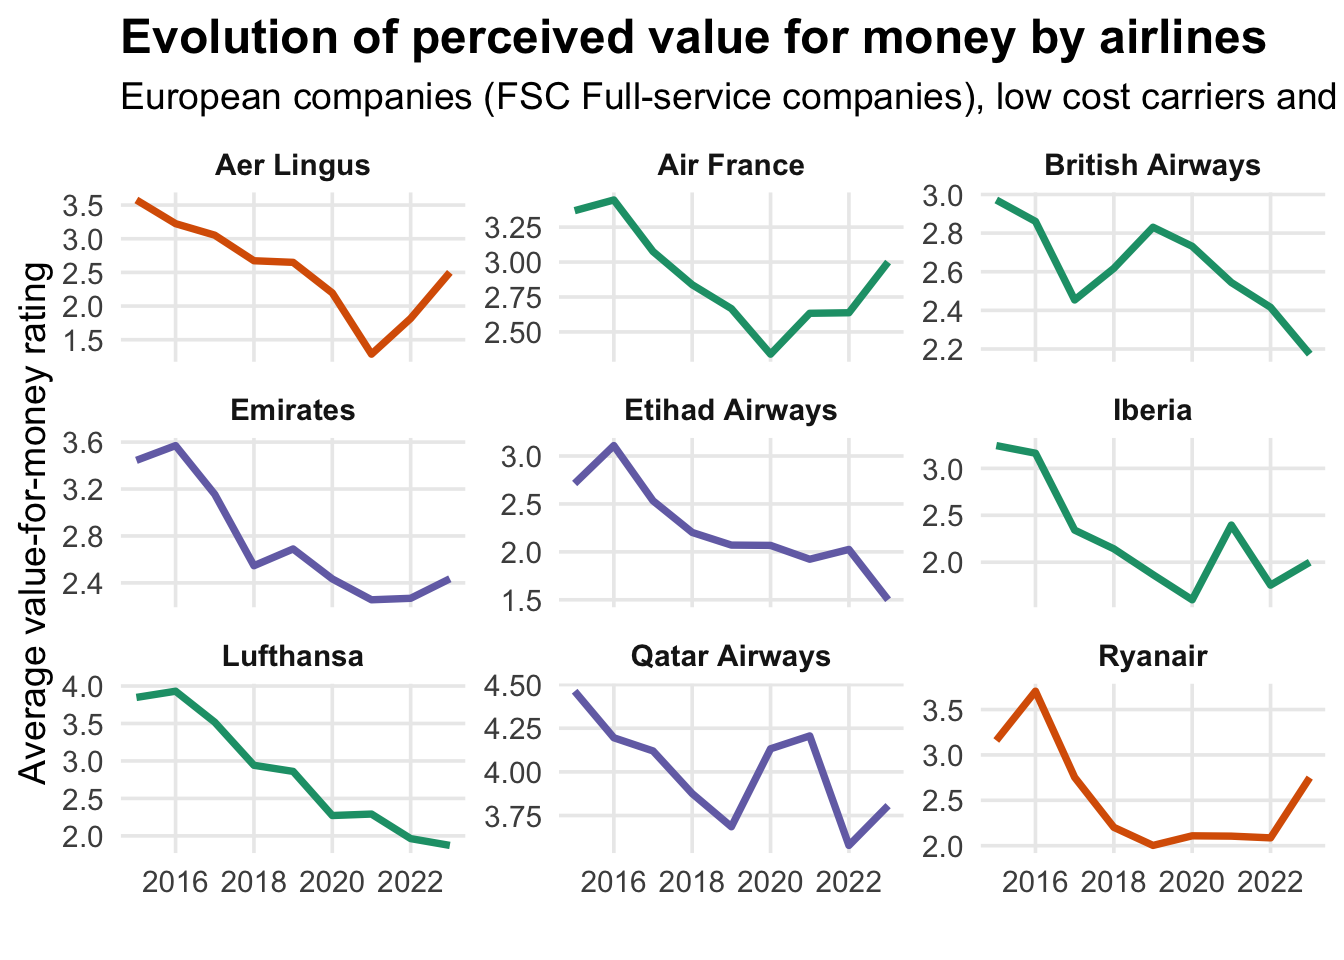
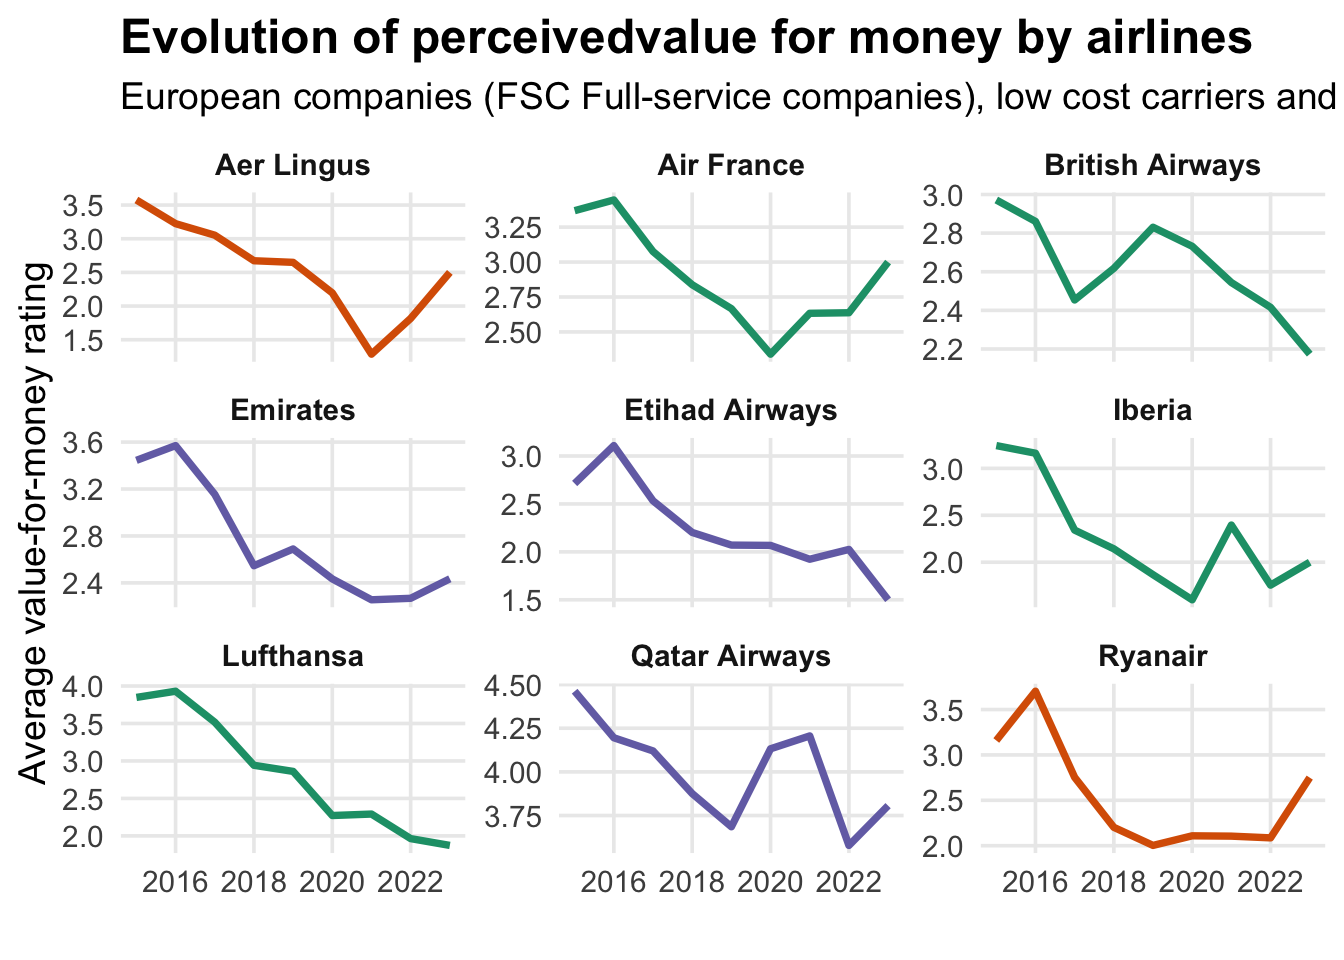
Built site for gh-pages

Changed region(s): [[0.4688, 0.0, 0.9375, 0.0625]]

diff --git a/index.html b/index.html
@@ -221,6 +221,11 @@ ul.task-list li input[type="checkbox"] {
 </div>
 </div>
 </div>
+<p>The plots clearly show things like perceived value decreasing and even plummeting for many airlines, fluctuating service quality, and price/value factors shifting. Several elements present in the literature help explain this. Also, let us not forget that these ratings are SUBJECTIVE which may have important implications for our findings.</p>
+<p>To begin with, one of the most important factors that we will focus on is COVID-19 pandemic and its aftermath: indeed, a 2024 paper (Kim et al.&nbsp;(2024) has shown that passengers’ expectations and criteria for choosing their airlines have drastically changed, and that service quality perceptions were disrupted by the pandemic (linked to cancellations or staffing shortages).</p>
+<p>Secondly, recent research (Yalvaç, 2026) has also shown that <strong>t</strong>he growth and development of online reviews and social media has made passenger experiences far more visible and influential, with the development of online review websites (such as the one we are using in this mini-case study).</p>
+<p>Other reasons can also include the deregulation of the industry. Indeed, since airline deregulation (1978 in the US), some airlines have been trying more and more to cut costs to focus on price, which affects how people&nbsp;<em>choose</em>&nbsp;airlines today. During an interview, the Ryanair CEO Michael O’Leary has suggested charging for access to toilets and creating standing room at the back of planes.</p>
+<p>Batarliene and Slavinskaite (Batarlienė &amp; Slavinskaitė, 2023) suggest that the rise of LCC such as Ryanair or Easy-Jet has changed the expectations of service and quality confort and not only choice criteria, as these companies focus on competitive pricing, which may entail flying to “cheaper” airports or cutting amenities.</p>
 
 
 

diff --git a/methodology.html b/methodology.html
@@ -165,7 +165,7 @@ ul.task-list li input[type="checkbox"] {
 </ul>
 <p>HOWEVER, all variables are <em>subjective</em> evaluations. But, because airline choice is driven by passenger perceptions, these ratings are well suited to analyzing how decision factors have evolved over time.</p>
 <section id="ethical-statement" class="level4">
-<h4 class="anchored" data-anchor-id="ethical-statement">ETHICAL STATEMENT</h4>
+<h4 class="anchored" data-anchor-id="ethical-statement"><strong>ETHICAL STATEMENT</strong></h4>
 <p>All data used in the research were obtained from publicly available and ethically sourced secondary datasets. Ethical approval was not required.</p>
 
 
